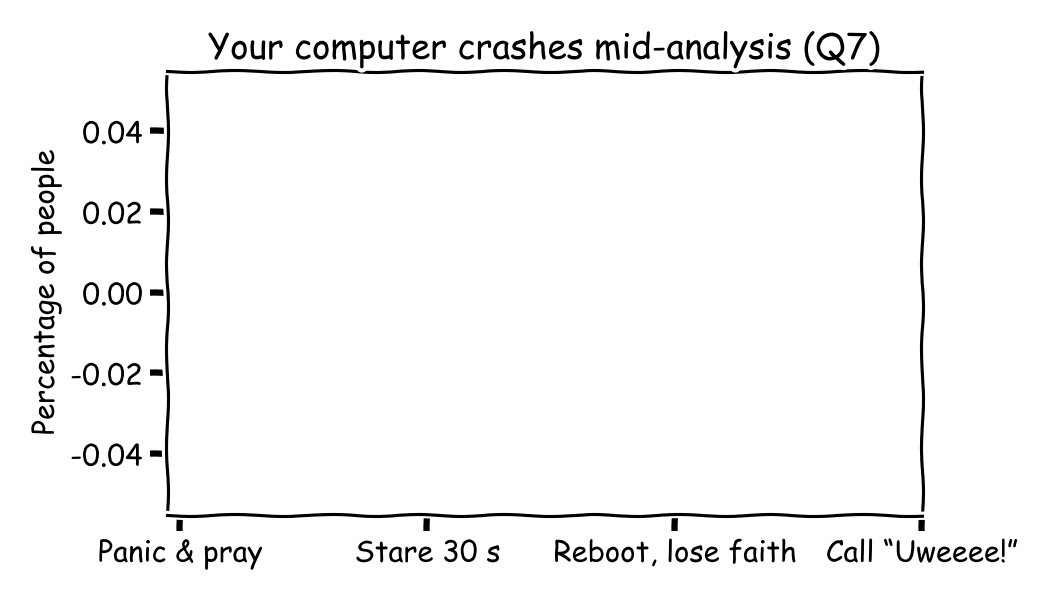
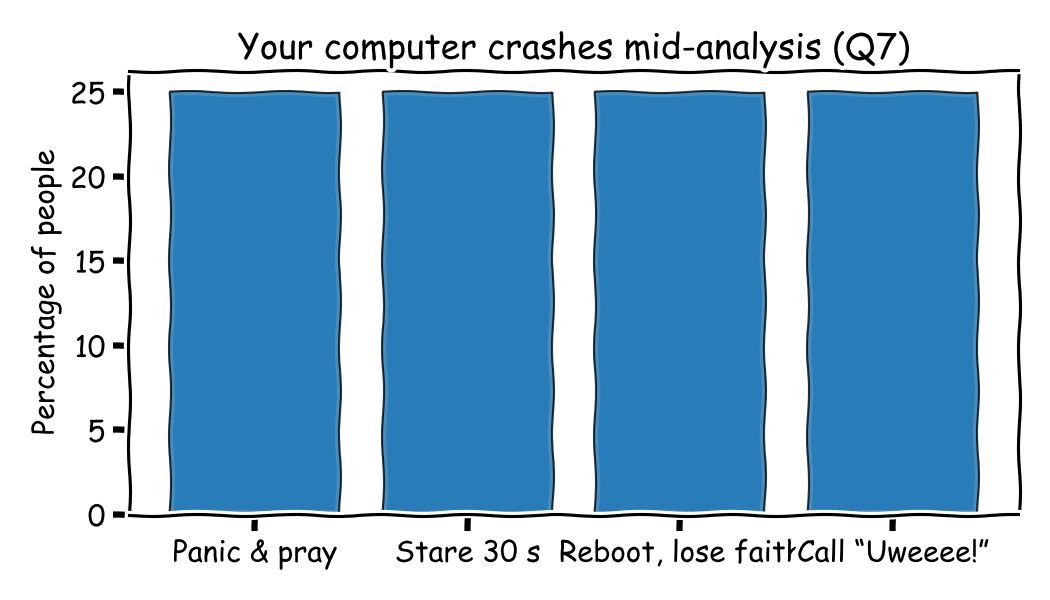
All numberic questions plotted

diff --git a/census_analysis.py b/census_analysis.py
@@ -97,42 +97,51 @@ def plot_likert(df, col, title, filename=None, as_percent=True):
 
     plt.show()
 
-# ---------- TYPE 3: SINGLE CHOICE ----------
+
+# ---------- TYPE 3: SINGLE CHOICE (1..N coded) ----------
 
 def plot_single_choice(df, col, title, option_labels, filename=None, as_percent=True):
     """
     df: dataframe
-    col: column name in df
+    col: column name in df (values encoded as 1..N integers)
     title: plot title
-    option_labels: dict mapping codes -> labels
-                   order of keys = order on x-axis!
-                   e.g. {"A": "Panic & pray", "B": "Stare 30s", ...}
+    option_labels: dict mapping int -> label
+                   e.g. {1: "Panic & pray", 2: "Stare 30 s", ...}
+                   keys define the category range and order.
     """
-    values = df[col].dropna().astype(str)
+    values = df[col].dropna().astype(int)
     if values.empty:
         print(f"No data for {col}")
         return
 
-    # Count occurrences
-    counts = values.value_counts()
+    # Categories are 1..max_key, even if some weren't chosen
+    categories = sorted(option_labels.keys())
+    max_cat = max(categories)
+    full_range = list(range(1, max_cat + 1))
 
-    # Respect the order in option_labels
-    expected_opts = list(option_labels.keys())
-    counts = counts.reindex(expected_opts, fill_value=0)
+    # Count occurrences and ensure all categories exist
+    counts = values.value_counts()
+    counts = counts.reindex(full_range, fill_value=0)
+
+    total = counts.sum()
+    if total == 0:
+        print(f"No valid responses for {col}, saw values: {sorted(values.unique())}")
+        return
 
     if as_percent:
-        counts_plot = counts / counts.sum() * 100
+        counts_plot = counts / total * 100
         ylabel = "Percentage of people"
     else:
         counts_plot = counts
         ylabel = "Number of people"
 
-    x = np.arange(len(expected_opts))
+    x = np.arange(len(full_range))
 
     plt.figure(figsize=(7, 4))
     plt.bar(x, counts_plot.values, edgecolor="black", alpha=0.8)
 
-    tick_labels = [option_labels[o] for o in expected_opts]
+    # Use labels from option_labels; if something is missing, fall back to the number
+    tick_labels = [option_labels.get(cat, str(cat)) for cat in full_range]
     plt.xticks(x, tick_labels)
 
     plt.ylabel(ylabel)
@@ -145,9 +154,59 @@ def plot_single_choice(df, col, title, option_labels, filename=None, as_percent=
     plt.show()
 
 
+# ---------- Q14b: SPLIT TEXT REASONS BY ORIENTATION ----------
+
+def export_q14_reasons(df, orientation_col="q14_lids_orientation", reason_col="q14_why"):
+    """
+    Splits Q14 'Why?' answers into two lists:
+    - orientation == 1 -> upwards reasons
+    - orientation == 2 -> downwards reasons
+
+    Prints them to the console and also writes two text files:
+    - q14_upwards_reasons.txt
+    - q14_downwards_reasons.txt
+    """
+    if orientation_col not in df.columns or reason_col not in df.columns:
+        print("Q14 columns not found in dataframe.")
+        return
+
+    # Make sure orientation is numeric
+    orient = pd.to_numeric(df[orientation_col], errors="coerce")
+
+    # Upwards = 1
+    up_mask = orient == 1
+    upwards_reasons = df.loc[up_mask, reason_col].dropna().astype(str).str.strip()
+    upwards_reasons = upwards_reasons[upwards_reasons != ""]
+
+    # Downwards = 2
+    down_mask = orient == 2
+    downwards_reasons = df.loc[down_mask, reason_col].dropna().astype(str).str.strip()
+    downwards_reasons = downwards_reasons[downwards_reasons != ""]
+
+    # Print to console for easy copy-paste
+    print("\n=== Q14b: Reasons for opening UPWARDS (orientation == 1) ===")
+    for r in upwards_reasons:
+        print("-", r)
+
+    print("\n=== Q14b: Reasons for opening DOWNWARDS (orientation == 2) ===")
+    for r in downwards_reasons:
+        print("-", r)
+
+    # Also write to text files (optional but handy)
+    with open("q14_upwards_reasons.txt", "w", encoding="utf-8") as f:
+        for r in upwards_reasons:
+            f.write(r + "\n")
+
+    with open("q14_downwards_reasons.txt", "w", encoding="utf-8") as f:
+        for r in downwards_reasons:
+            f.write(r + "\n")
+
+    print("\nQ14b reasons exported to q14_upwards_reasons.txt and q14_downwards_reasons.txt")
+
+
 # ---------- RUN ANALYSES ----------
 
-# Q1: coffees / teas
+# Q1: coffees / teas (numeric)
 plot_numeric_with_normal(
     df,
     col="q01_coffee",
@@ -157,7 +216,7 @@ plot_numeric_with_normal(
     filename="q01_coffee.png",
 )
 
-# Q12: browser tabs
+# Q12: browser tabs (numeric)
 plot_numeric_with_normal(
     df,
     col="q12_tabs_open",
@@ -167,7 +226,7 @@ plot_numeric_with_normal(
     filename="q12_tabs.png",
 )
 
-# Q2–Q6: agreement scale
+# Q2–Q6: agreement scale (Likert)
 plot_likert(
     df,
     col="q02_whisper",
@@ -203,86 +262,155 @@ plot_likert(
     filename="q06_labeling.png",
 )
 
+# ---------- SINGLE CHOICE (1..N) ----------
+
+# Q7: crash response (1–4)
 plot_single_choice(
     df,
     col="q07_crash_response",
     title="Your computer crashes mid-analysis (Q7)",
     option_labels={
-        "A": "Panic & pray",
-        "B": "Stare 30 s",
-        "C": "Reboot, lose faith",
-        "D": "Call “Uweeee!”",
+        1: "Panic & pray",
+        2: "Stare 30 s",
+        3: "Reboot, lose faith",
+        4: "Call “Uweeee!”",
     },
     filename="q07_crash.png",
 )
 
+# Q9: Christmas punch (1–2)
 plot_single_choice(
     df,
     col="q09_punch_water_bath",
     title="Would you drink punch heated in the water bath? (Q9)",
     option_labels={
-        "yes": "Yes",
-        "no": "No",
+        1: "Yes",
+        2: "No",
     },
     filename="q09_punch.png",
 )
 
+# Q13: pretend to understand (1–3)
 plot_single_choice(
     df,
     col="q13_pretend_understand",
     title="Do you pretend to understand colleagues' methods? (Q13)",
     option_labels={
-        "yes": "Yes",
-        "no": "No",
-        "always": "Always",
+        1: "Yes",
+        2: "No",
+        3: "Always",
     },
     filename="q13_pretend.png",
 )
 
+# Q14a: tube lids orientation (1–2)
+plot_single_choice(
+    df,
+    col="q14_lids_orientation",
+    title="Tube lids orientation (Q14a)",
+    option_labels={
+        1: "Opening upwards",
+        2: "Opening downwards",
+    },
+    filename="q14_lids.png",
+)
+
+# Q16: reindeer ethics (1–2)
 plot_single_choice(
     df,
     col="q16_reindeer_ethics",
     title="Would Santa's reindeer pass animal ethics approval? (Q16)",
     option_labels={
-        "yes": "Yes",
-        "no": "No",
+        1: "Yes",
+        2: "No",
     },
     filename="q16_reindeer.png",
 )
 
+# Q18: true center of the institute (1–4)
 plot_single_choice(
     df,
     col="q18_true_center",
     title="Where is the true center of the institute? (Q18)",
     option_labels={
-        "A": "Lunch room",
-        "B": "Christian's office",
-        "C": "Cell culture lab",
-        "D": "Animal housing",
+        1: "Lunch room",
+        2: "Christian's office",
+        3: "Cell culture lab",
+        4: "Animal housing",
     },
     filename="q18_center.png",
 )
 
+# Q20: snacks at desk (1–2)
 plot_single_choice(
     df,
     col="q20_snacks_at_desk",
     title="Do you keep snacks at your desk? (Q20)",
     option_labels={
-        "yes": "Yes",
-        "no": "No",
+        1: "Yes",
+        2: "No",
     },
     filename="q20_snacks.png",
 )
 
+# Q21: “quick meeting” expectations (1–4)
 plot_single_choice(
     df,
     col="q21_quick_meeting_expect",
     title='When your PI says "quick meeting"... (Q21)',
     option_labels={
-        "A": "5 minutes",
-        "B": "20 minutes",
-        "C": "1 hour",
-        "D": "Career\nreevaluation",
+        1: "5 minutes",
+        2: "20 minutes",
+        3: "1 hour",
+        4: "Career\nreeevaluation",
     },
     filename="q21_meeting.png",
 )
+
+# ---------- Q14b: export reasons lists ----------
+
+export_q14_reasons(df, orientation_col="q14_lids_orientation", reason_col="q14_why")
+
+# ---------- Q17: Bathroom star ratings (EXPORT TO TEXT) ----------
+
+def export_bathroom_ratings(df):
+
+    bathroom_cols = [
+        "q17_bathroom_back_3rd",
+        "q17_bathroom_front_3rd",
+        "q17_bathroom_old_2nd",
+        "q17_bathroom_new_2nd",
+        "q17_bathroom_1st",
+    ]
+
+    lines = []
+    print("\n=== Bathroom Ratings Summary (Q17) ===")
+    print("Bathroom, Average rating, Number of reviews")
+
+    for col in bathroom_cols:
+        if col not in df.columns:
+            print(f"{col}, NOT FOUND")
+            lines.append(f"{col}, NOT FOUND\n")
+            continue
+
+        vals = pd.to_numeric(df[col], errors="coerce").dropna()
+
+        if vals.empty:
+            print(f"{col}, no ratings, 0")
+            lines.append(f"{col}, no ratings, 0\n")
+            continue
+
+        avg = vals.mean()
+        count = len(vals)
+
+        print(f"{col}, {avg:.2f}, {count}")
+        lines.append(f"{col}, {avg:.2f}, {count}\n")
+
+    # Write to file
+    with open("bathroom_ratings_summary.txt", "w", encoding="utf-8") as f:
+        for line in lines:
+            f.write(line)
+
+    print("\nBathroom ratings exported to bathroom_ratings_summary.txt")
+
+export_bathroom_ratings(df)
